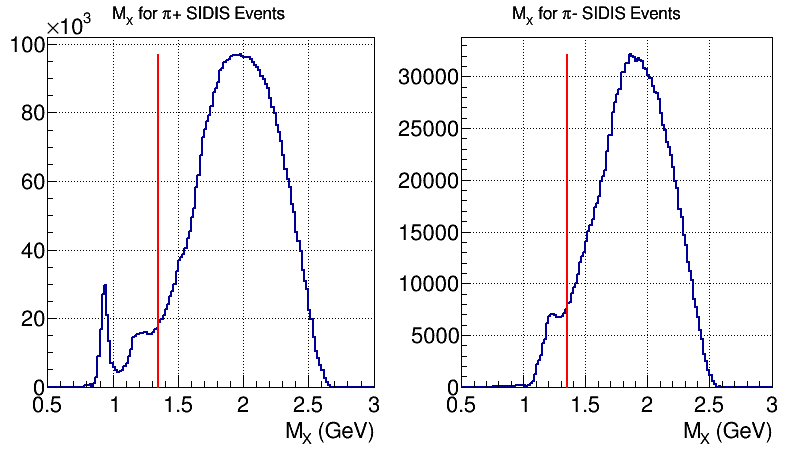
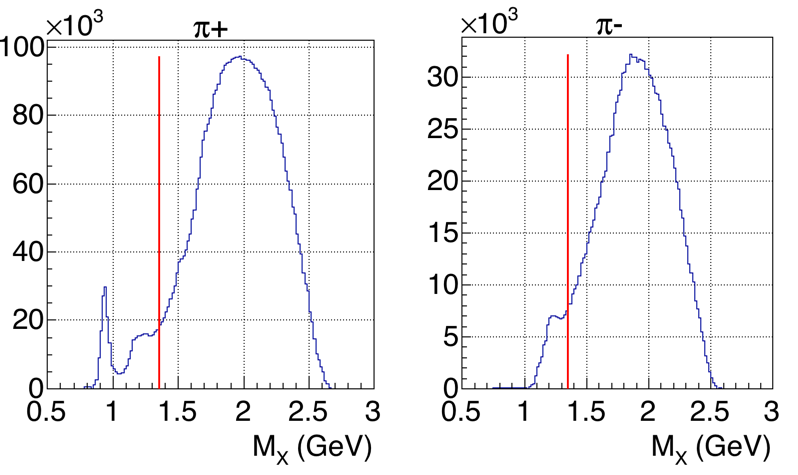
Plot improvements and minor fixes

diff --git a/PRL/plb.tex b/PRL/plb.tex
@@ -7,6 +7,9 @@
 \usepackage{mathtools}
 \usepackage{verbatim}
 
+\usepackage{lineno}
+\linenumbers
+
 \newcommand{\Phperp}{P_{h\perp}}
 \newcommand{\FUUc}{F_{UU}^{\cos\phi_h}}
 \newcommand{\FUUcc}{F_{UU}^{\cos2\phi_h}}
@@ -59,7 +62,7 @@ It is expected that TMDs will give insights into quark orbital motion and its co
 
 TMDs depend on the three-dimensional momentum of a particular parton inside of a hadron.
 One tool for accessing TMDs is Semi-inclusive deep-inelastic scattering (SIDIS) which has emerged as a powerful tool to probe nucleon structure through measurements of spin and azimuthal asymmetries.
-A SIDIS reaction is one in which a beam lepton, $\ell$, scatters off of a target nucleon, $N$, via the exchange of a virtual photon and the scattered lepton, $\ell^{\prime}$, is detected along with a single hadron, $h$; everything else in the final state, $X$, is ignored, i.e.,
+A SIDIS reaction is one in which a beam lepton, $\ell$, scatters off of a target nucleon, $N$, via the exchange of a virtual photon and the scattered lepton, $\ell^{\prime}$, is detected along with a single hadron, $h$; everything else in the final state, $X$, is undetected, i.e.,
 \begin{equation}
 \label{eq:sidis}
 \ell (k) + N(P) \rightarrow \ell^{\prime} (k^{\prime} ) + h(P_{h}) + X(P_{X})
@@ -74,12 +77,12 @@ This is a next-to-leading order effect in the strong coupling constant and contr
 In 1978, Cahn~\cite{Cahn:1978se}   discussed  similar asymmetries arising from non-zero intrinsic transverse momenta of partons.
 Although suppressed by $P_{h\perp}/Q$, where $Q$ is defined by $Q^2 = -q^2 = -(k-k^\prime)^2$ where $q$ is the four-momentum of the virtual photon, that modulation (known as the Cahn effect) appeared to be significant and dominating in the $P_{h\perp} \sim $1 GeV range.
 Significant cosine modulations of $\phi_h$, observed in various experiments, indicate that higher twist~\cite{Jaffe:1996zw} effects can be very important.
-Additional contribution to $\cos \phi_h$ and $\cos 2\phi_h$ moments coming from processes where the final meson
+Additional contributions to $\cos \phi_h$ and $\cos 2\phi_h$ moments coming from processes where the final meson
 is produced at short distances via hard-gluon exchange \cite{Berger:1979xz} may also be 
 significant in the kinematic regime where the ejected meson carries  most of 
 the virtual photon momentum.
 
-The interplay between the parton transverse momentum and spin (Boer-Mulders effect~\cite{Boer:1997nt}) can generate a leading-twist
+The interplay between the parton transverse momentum and spin, known as the Boer-Mulders effect~\cite{Boer:1997nt}, can generate a leading-twist
 contribution to the $\cos 2\phi_h$ modulation, which is one of the main focuses of our studies.
 The Boer-Mulders function, discussed in the next section, is of particular interest since it vanishes in the absence of transverse momentum and thus gives insights into the quark angular momentum contribution to the proton spin.
 
@@ -108,19 +111,22 @@ Assuming single photon exchange, the leptoproduction cross-section for an unpola
 \end{equation}
 where the structure functions, $F$, depend on kinematical variables $x,Q^2,z,P_{h\perp}$ and define the modulations of corresponding azimuthal moments with azimuthal angle $\phi_{h}$.
 The first subscript on the structure functions represents the beam polarization, the second subscript repsresents the target polarization, and the third subscript (if there is one) represents the virtual photon polarization, where U, L, and T are short for unpolarized, longitudinally polarized, and transversely polarized, respectively.
-The kinematic variables $\xbj$, $y$, and $z$  are defined as: 
-$\xbj = Q^2/{2(P\cdot q)}$, $y={(P \cdot q)/(P \cdot k)}$, $\zh=(P_h \cdot P)/(P \cdot q)$, 
-where $\gamma=2M\xbj /Q$ and $M$ and $M_h$ are the nucleon and hadron masses detected hadron.
+The kinematic variables $\xbj$, $y$, and $z$  are defined as follows.
+$\xbj = Q^2/{2(P\cdot q)}$ is the longitudinal momentum fraction of the struck quark, 
+$y={(P \cdot q)/(P \cdot k)}$ is the fraction of the beam energy carried by the virtual photon,
+and $\zh=(P_h \cdot P)/(P \cdot q)$ is the longitudinal momentum fraction of the struck quark, 
+where $\gamma=2M\xbj /Q$ and $M$ and $M_h$ are the nucleon and hadron masses.
 The ratio $\varepsilon$ of the longitudinal and transverse photon flux is given by: $\varepsilon=\frac{1-y-\gamma^2y^2/4}{1-y+y^2/2+\gamma^2y^2/4}$.
 The structure function  $F_{UU,T}$  defining the $\phi_h$-integrated cross sections could be presented as a convolution of  distribution function (DF), $f_1$,   and fragmentation function (FF), $D_1$, which  are the usual unpolarized twist-2 DF and FF, respectively. 
 
-The structure function $F^{\cos 2\ph}_{UU}$ at leading twist can be presented as a convolution of Boer-Mulders distribution function, $h_1^\perp$ (\cite{Boer:1997nt}) describing the correlation between the transverse motion
+The structure function $F^{\cos 2\ph}_{UU}$ at leading twist can be presented as a convolution of Boer-Mulders distribution function, $h_1^\perp$ \cite{Boer:1997nt} describing the correlation between the transverse motion
 of a quark and its own transverse spin, and  the Collins fragmentation function, $H_1^{\perp}$~\cite{Collins:1992kk}, describing fragmentation of transversely polarized quarks.
 The structure function $F^{\cos \ph}_{UU}$  receives contributions 
 from the convolution of twist-2 and twist-3 distribution and fragmentation functions,
-such as the twist-2 Boer-Mulders DF $h_1^\perp$ (\cite{Boer:1997nt,Pasquini:2010af}), the Collins FF $H_1^{\perp}$, and the twist-3 DFs $h$ and $f^\perp$~\cite{Bacchetta:2006tn}, which can be interpreted as a higher twist analog of the Sivers function. Both functions represent spin-orbit correlations. 
+such as the twist-2 time-reversal odd Boer-Mulders DF $h_1^\perp$ (\cite{Boer:1997nt,Pasquini:2010af}), the Collins FF $H_1^{\perp}$, and the twist-3 DFs $h$ and $f^\perp$~\cite{Bacchetta:2006tn}.
+Both functions represent spin-orbit correlations. 
 
-The cross-section modulation of  $\cos \phi_h $ in Eq.~\ref{eq:crosssection3}, gets contributions only
+The $\cos \phi_h$ modulation of the structure function $F_{UU}^{\cos \phi_h}$ in Eq.~\ref{eq:crosssection3} gets contributions only
 at sub-leading level and suppressed by powers of the hard scale Q (higher-twist).
 This type of contribution is interesting in its own as it provides complementary information
 on the quark dynamics.
@@ -143,7 +149,7 @@ The structure function $F^{\cos \ph}_{UU}$ is higher-twist by nature, which mean
 Such higher-twist observables are a key for understanding long-range quark-gluon dynamics.
 They have also been interpreted in terms of average transverse forces acting on a quark at the instant after absorbing the virtual photon \cite{Burkardt:2008vd}.
 Different contributions to the structure function  $F^{\cos \ph}_{UU}$ have been calculated, related to both internal quark motion and the Collins mechanisms.
-Sizable modulations  were predicted for pion production ~\cite{Anselmino:2005nn} with spin-orbit correlations   as the dynamical origin.
+Sizable modulations as large as $\left< \cos \phi_h \right> = 0.2$ were predicted for pion production~\cite{Anselmino:2005nn} with spin-orbit correlations as the dynamical origin.
 Within this framework, the asymmetry generated at the distribution level is given by either the convolution of the T-odd Boer-Mulders DF $h_1^{\perp}$ with the twist-3 FF $\tilde{H}$ ~\cite{Bacchetta:2006tn}, or the convolution of the  twist-3 T-odd DF $f^\perp$ with the unpolarized FF $D_1$\cite{Metz:2004je}.
 Because the $f^\perp$ DF can be interpreted as the higher-twist analog of the Sivers function, it underscores the potential of $\cos\phi_h$ modulation for studying spin-orbit correlations.
 
@@ -155,11 +161,11 @@ Because the $f^\perp$ DF can be interpreted as the higher-twist analog of the Si
 \end{center}
 Longitudinally polarized electrons were scattered off an unpolarized liquid-hydrogen target. 
 Scattered electrons were detected in CLAS.
-Electron candidates were selected by a hardware trigger using a coincidence of the gas Cherenkov counters and the lead-scintillator electromagnetic calorimeters (EC). 
+Electron candidates were selected by a hardware trigger using a coincidence of the gas Cherenkov counters and the lead-scintillator electromagnetic calorimeters. 
 
 Deep-inelastic scattering events were selected by requiring $Q^2>1$ GeV$^2$ and  $W^2>4$ GeV$^2$,
 where $W$ is the invariant mass of the hadronic final state. 
-The total number of selected $e\pi^\pm$ coincidences was $\approx 6.7M$ for the presented $z$ range, $0.4<z<0.7$, which selects the semi-inclusive region \cite{Avakian:2010ae}.
+The total number of selected $e\pi^\pm$ coincidences was $\approx 6.7M$ for the $z$ range $0.4<z<0.7$, which selects the semi-inclusive region \cite{Avakian:2010ae}.
 Events with missing-mass values for the $e\pi^\pm$ system that are smaller 
 than 1.35 GeV ($M_{X}(e\pi^\pm)<$1.35 GeV) were discarded to exclude contributions from exclusive processes. 
 In pion SIDIS events ($ep \rightarrow e\pi X$), the missing mass ($M_X$) is defined as the invariant mass of the undetected state $X$:
@@ -182,11 +188,20 @@ The vertical red line shows the cut of 1.35 GeV. Events to the left of this line
 
 A major challenge in extraction of $\phi_h$ distributions is the handling of the detector acceptance, both geometrical acceptance (the location of active detector elements) and the efficiency in the active regions.
 This is done using Monte Carlo simulations.
-A LUND-MC based event generator (PEPSI~\cite{Mankiewicz:1991dp}) was used to create a realistic large set of events (several iterations were done to make the set ``realistic'') which were passed through a GEANT based simulation of the CLAS detector.
-For a given kinematic space, the acceptance is equal to the number of reconstructed events divided by the number of generated events.
+A LUND-MC based event generator, PEPSI~\cite{Mankiewicz:1991dp}, was used to create a realistic large set of events (several iterations were done to make the set ``realistic'') which were passed through a GEANT based simulation of the CLAS detector.
+Figure~\ref{fig:pt2_data_mc_comparison} shows a data-MC comparison of $P_{h\perp}^2$ distributions.
+For a given kinematic bin, the acceptance is equal to the number of reconstructed events divided by the number of generated events.
 The number of events in the experimental data is then divided by the acceptance to get a corrected value for the number of events.
-After events have been selected and binned, and after all corrections, including bin centering corrections,  have been applied, 
-a table of values of normalized counts in elementary bins has been extracted in 5-dimensional $x$-$Q^2$-$z$-$\Phperp^2$-$\phi_h$ phase space.
+After events have been selected and binned, and after all corrections, including bin centering corrections, have been applied, 
+a table of values of counts in elementary bins has been extracted in 5-dimensional $x$-$Q^2$-$z$-$\Phperp^2$-$\phi_h$ phase space.
+The aforementioned bin centering corrections adjust for bin size and the fact that the measured cross-section is averaged over the phase space coverage of each bin.
+\begin{figure}[htp]
+\centering
+\includegraphics[width=3.0in,height=1.5in]{plots/pt2_data_mc_comparison.png}
+\caption{(Color online) $P_{h\perp}^2$ distributions for data (blue) and MC (red) for the $\pi^+$ channel (left) and $\pi^-$ channel (right).}
+\label{fig:pt2_data_mc_comparison}
+\end{figure}
+
 
 HAPRAD version 2.0 \cite{Akushevich:1999hz,Akushevich:2007jc} was used to calculate radiative corrections (RC) for each bin by calculating $\sigma_{rad+tail} \left( x, Q^2, z, P_{h\perp}^2, \phi_h \right)$ for a given \allowbreak $\sigma_{Born} \left( x, Q^2, z, P_{h\perp}^2, \phi_h \right)$ which is obtained from a model.
 The radiative correction factor is then simply
@@ -200,6 +215,7 @@ The radiative correction factor is then simply
 \end{equation}
 and the Born cross-section can be obtained by dividing the measured cross-section by the RC factor, i.e., $\sigma_{Born} = \sigma_{measured}/\text{RC factor}$.
 Three different models were used to study model dependence of radiative corrections.
+The first model came from MAID 2003~\cite{Drechsel:1999}, which was then tuned slightly to better match the data to produce the other two models.
 
 Fourteen sources of systematic error were studied - eight from electron selection cuts, three from pion selection cuts, one from the acceptance model, one from the RC model, and one from sector dependence.
 The systematic error on the final result due to a given source is the RMS of the deviations of the modified result from the original, i.e. the error from source $i$ is
@@ -210,7 +226,7 @@ The systematic error on the final result due to a given source is the RMS of the
 \end{equation}
 %
 where $\Delta_j$ is the difference between the final result with the nominal value and the final result with variation $j$, and $N_v^i$ is the number of variations for source $i$.
-Main sources of systematic error include the accetance, electron selection cuts, and variations between the six sectors of CLAS.
+Dominant sources of systematic error include the acceptance, electron selection cuts, and variations between the six sectors of CLAS.
 Table~\ref{tab:A0AcAcc_PT2bins_x1QQ1z8} breaks down the relative sizes of the errors for each source for several representative bins.
 Typically, the size of the systematic errors is comparable to the size of the statistical errors.
 Relatively large systematic errors occur in regions of phase space where the acceptance changes rapidly.
@@ -219,17 +235,27 @@ This acceptance structure is strongly correlated with $z$ and $P_{h\perp}^2$ and
 %%%%%%%%%%%%%%%%%%%%%%%%%%%%%%%%%%%%%%%%
 %%%%%%%%%%%%%%%%%%%%%%%%%%%%%%%%%%%%%%%%
 
-%%%%%%%%%%%%%%%%%%%%%%%%%%%%%%%%%%%%%%%%
 \begin{center}
 \textbf{IV. RESULTS} \par
 \end{center}
 \begin{center}
 \textbf{A. $A_0$, $A_{UU}^{\cos\phi_h}$, and $A_{UU}^{\cos 2\phi_h}$} \par
 \end{center}
-To extract the $\phi_h$-independent term ($A_0$) and azimuthal moments ($A_{UU}^{\cos\phi_h}$ and $A_{UU}^{\cos 2\phi_h}$), the $\phi_h$ distributions for charged pions for each $x-Q^2-z-P_{h\perp}^2$ bin are fit with the function $a(1 + b\cos\phi_h + c\cos 2\phi_h)$.
+To extract the $\phi_h$-independent term ($A_0$) and azimuthal moments ($A_{UU}^{\cos\phi_h}$ and $A_{UU}^{\cos 2\phi_h}$), the $\phi_h$ distributions for charged pions for each $x$, $Q^2$, $z$, and $P_{h\perp}^2$ bin are fit with the function $a(1 + b\cos\phi_h + c\cos 2\phi_h)$.
 The parameters $a$, $b$, and $c$ then directly give $A_0$, $A_{UU}^{\cos\phi_h}$, and $A_{UU}^{\cos 2\phi_h}$ for each $x-Q^2-z-P_{h\perp}^2$ bin.
+Comparing this to equation~\ref{eq:crosssection3} gives
+\begin{equation}
+\label{eq:A0AcAccDefinitions}
+\begin{split}
+& A_0 = \frac{2\pi}{2(k\cdot P)x} \frac{\alpha^{2}}{xyQ^{2}} \frac{y^{2}}{2 \left( 1 - \varepsilon \right)} \left( 1 + \frac{\gamma^{2}}{2x} \right) \left( F_{UU,T} + \varepsilon F_{UU,L} \right)
+\\
+& A_{UU}^{\cos \phi_h} = \frac{\sqrt{2 \varepsilon \left( 1 + \varepsilon \right)} F_{UU}^{\cos \phi_h}}{F_{UU,T} + \varepsilon F_{UU,L}}
+\\
+& A_{UU}^{\cos 2 \phi_h} = \frac{\varepsilon F_{UU}^{\cos 2 \phi_h}}{F_{UU,T} + \varepsilon F_{UU,L}} .
+\end{split}
+\end{equation}
 A complete table of results can be found in the ancillary files.
-Several representitive plots are shown here in figure~\ref{fig:A0AcAcc_zPT2bins_x1QQ1_final}, which shows $A_0$, $A_{UU}^{\cos\phi_h}$, and $A_{UU}^{\cos 2\phi_h}$ vs $P_{h\perp}^2$ for several $z$ bins for both pion channels.
+Several representitive plots are shown here in figure~\ref{fig:A0AcAcc_zPT2bins_x1QQ1_final}, which shows the dependence of $P_{h\perp}^2$ on $A_0$, $A_{UU}^{\cos\phi_h}$, and $A_{UU}^{\cos 2\phi_h}$ for each charged pion for several $z$ bins.
 %
 \begin{figure}[htp]
 \centering
@@ -283,17 +309,18 @@ Several representitive plots are shown here in figure~\ref{fig:A0AcAcc_zPT2bins_
 \label{tab:A0AcAcc_PT2bins_x1QQ1z8}
 \end{table}
 
-The $cos \phi_h$ modulations for $\pi^+$ and $\pi^-$ differ considerably, sometimes with opposite signs inticating the Boer-Mulders effect in cosine modulations at lower energies plays a more significant role than expected from higher energy measurements.
-A possible suppression of the Cahn effect due to phase space limitations, which play a more important role at lower beam energies, has been discussed by Prokudin et al.
+The $\cos \phi_h$ modulations for $\pi^+$ and $\pi^-$ differ considerably, sometimes with opposite signs indicating the Boer-Mulders effect in cosine modulations at lower energies plays a more significant role than expected from higher energy measurements.
+A possible suppression of the Cahn effect due to phase space limitations, which play a more important role at lower beam energies, has been discussed by Boglione, Melis, and Prokudin~\cite{Boglione:2011wm}.
 
-The measured $cos 2 \phi_h$ moment for $\pi^+$ and $\pi^-$ in most of the kinematics are close to each other indicating the contribution from the Boer-Mulders effect may not be dominant.
-The $\rm cos \phi_h$ asymmetry gets contributions only at sub-leading twist and can be used to constrain the related terms~\cite{Cahn:1978se,Anselmino:2005nn,Berger:1979xz}.
+The measured $\cos 2 \phi_h$ moment for $\pi^+$ and $\pi^-$ in most of the kinematic bins are close to each other indicating the contribution from the Boer-Mulders effect may not be dominant.
+The $\cos \phi_h$ asymmetry gets contributions only at sub-leading twist and can be used to constrain the related terms~\cite{Cahn:1978se,Anselmino:2005nn,Berger:1979xz}.
 The formalism based on the twist-3 approach could be tested in $Q^2$ dependence of $\cos\phi_h$ modulations.
 
 %%%%%%%%%%%%%%%%%%%%%%%%%%%%%%%%%%%%%%%%
 \begin{center}
 \textbf{B. Comparisons} \par
 \end{center}
+
 During the last few years several precise SIDIS measurements have become available. The CLAS
 collaboration measured non-zero cosine modulations for positive pions produced
 by 6 GeV/c electrons scattering off the proton~\cite{Osipenko:2008rv}.  The
@@ -348,7 +375,8 @@ f(y)\approx \frac{(2-y)\sqrt{1-y}}{1-y+y^{2}/2} ,
 the CLAS and HERMES measurements are found to 
 be consistent with each other in a wide range of $Q^2$, as shown in Figs.~\ref{fig:clas-hermes}, indicating that at energies as low as 5-6 GeV, the
 behavior of azimuthal modulations are similar to higher energy measurements. 
-For comparison, the lowest $\xbj$ CLAS bin and highest $\xbj$ HERMES bins were used with equal average value of $\xbj\approx$ 0.19, $z\approx$ 0.45 and $\Phperp^2 \approx$ 0.42 GeV$^2$.
+For comparison, the lowest $\xbj$ CLAS bin and highest $\xbj$ HERMES bins were used with equal average value of $\xbj\approx$ 0.19, $z\approx$ 0.45 and $\Phperp^2 \approx$ 0.42 GeV$^2$;
+the $Q^2$ range for CLAS is 1.0 - 1.5 $\text{GeV}^2$ while the $Q^2$ range for HERMES is 3.5 - 8.0 $\text{GeV}^2$.
 
 The CLAS data provide significant improvements in the precision of azimuthal moments for the kinematic region where the two data sets overlap, and they extend the measurements to the large $\xbj$ region not accessible at HERMES.
 \begin{figure}[h]

diff --git a/PRL/plot_remakes/pt2_data_mc_comparison.C b/PRL/plot_remakes/pt2_data_mc_comparison.C
@@ -1,0 +1,153 @@
+{
+gStyle->SetOptStat(0);
+gStyle->SetTitleSize(0.08, "t");
+TGaxis::SetMaxDigits(3);
+
+TFile *data = new TFile("/Users/naharrison/mysidis-histos/data.s1.n11625.BiSc5.MoCo11.__0000000000000000__.root", "READ");
+TFile *mc = new TFile("/Users/naharrison/mysidis-histos/MonteCarlo_v12.it2.s1.n32255.BiSc5.__0000000000000000__.root", "READ");
+
+// pip, data/mc:
+TH2F *dpip00 = (TH2F*) data->Get("rec_pip_PT2vsz_x0QQ0");
+TH2F *dpip01 = (TH2F*) data->Get("rec_pip_PT2vsz_x0QQ1");
+TH2F *dpip10 = (TH2F*) data->Get("rec_pip_PT2vsz_x1QQ0");
+TH2F *dpip11 = (TH2F*) data->Get("rec_pip_PT2vsz_x1QQ1");
+TH2F *dpip20 = (TH2F*) data->Get("rec_pip_PT2vsz_x2QQ0");
+TH2F *dpip21 = (TH2F*) data->Get("rec_pip_PT2vsz_x2QQ1");
+TH2F *dpip30 = (TH2F*) data->Get("rec_pip_PT2vsz_x3QQ0");
+TH2F *dpip31 = (TH2F*) data->Get("rec_pip_PT2vsz_x3QQ1");
+TH2F *dpip40 = (TH2F*) data->Get("rec_pip_PT2vsz_x4QQ0");
+TH2F *dpip = new TH2F("dpip", "dpip", 200, 0, 1.05, 200, 0, 1.1);
+dpip->Add(dpip00);
+dpip->Add(dpip01);
+dpip->Add(dpip10);
+dpip->Add(dpip11);
+dpip->Add(dpip20);
+dpip->Add(dpip21);
+dpip->Add(dpip30);
+dpip->Add(dpip31);
+dpip->Add(dpip40);
+TH1D *dpip1 = dpip->ProjectionY();
+dpip1->SetTitle("#pi+");
+dpip1->Scale(1.0/dpip1->Integral(1, 200));
+
+TH2F *mcpip00 = (TH2F*) mc->Get("rec_pip_PT2vsz_x0QQ0");
+TH2F *mcpip01 = (TH2F*) mc->Get("rec_pip_PT2vsz_x0QQ1");
+TH2F *mcpip10 = (TH2F*) mc->Get("rec_pip_PT2vsz_x1QQ0");
+TH2F *mcpip11 = (TH2F*) mc->Get("rec_pip_PT2vsz_x1QQ1");
+TH2F *mcpip20 = (TH2F*) mc->Get("rec_pip_PT2vsz_x2QQ0");
+TH2F *mcpip21 = (TH2F*) mc->Get("rec_pip_PT2vsz_x2QQ1");
+TH2F *mcpip30 = (TH2F*) mc->Get("rec_pip_PT2vsz_x3QQ0");
+TH2F *mcpip31 = (TH2F*) mc->Get("rec_pip_PT2vsz_x3QQ1");
+TH2F *mcpip40 = (TH2F*) mc->Get("rec_pip_PT2vsz_x4QQ0");
+TH2F *mcpip = new TH2F("mcpip", "mcpip", 200, 0, 1.05, 200, 0, 1.1);
+mcpip->Add(mcpip00);
+mcpip->Add(mcpip01);
+mcpip->Add(mcpip10);
+mcpip->Add(mcpip11);
+mcpip->Add(mcpip20);
+mcpip->Add(mcpip21);
+mcpip->Add(mcpip30);
+mcpip->Add(mcpip31);
+mcpip->Add(mcpip40);
+TH1D *mcpip1 = mcpip->ProjectionY();
+mcpip1->SetTitle("#pi+");
+mcpip1->Scale(1.0/mcpip1->Integral(1, 200));
+
+
+// pim data/mc:
+TH2F *dpim00 = (TH2F*) data->Get("rec_pim_PT2vsz_x0QQ0");
+TH2F *dpim01 = (TH2F*) data->Get("rec_pim_PT2vsz_x0QQ1");
+TH2F *dpim10 = (TH2F*) data->Get("rec_pim_PT2vsz_x1QQ0");
+TH2F *dpim11 = (TH2F*) data->Get("rec_pim_PT2vsz_x1QQ1");
+TH2F *dpim20 = (TH2F*) data->Get("rec_pim_PT2vsz_x2QQ0");
+TH2F *dpim21 = (TH2F*) data->Get("rec_pim_PT2vsz_x2QQ1");
+TH2F *dpim30 = (TH2F*) data->Get("rec_pim_PT2vsz_x3QQ0");
+TH2F *dpim31 = (TH2F*) data->Get("rec_pim_PT2vsz_x3QQ1");
+TH2F *dpim40 = (TH2F*) data->Get("rec_pim_PT2vsz_x4QQ0");
+TH2F *dpim = new TH2F("dpim", "dpim", 200, 0, 1.05, 200, 0, 1.1);
+dpim->Add(dpim00);
+dpim->Add(dpim01);
+dpim->Add(dpim10);
+dpim->Add(dpim11);
+dpim->Add(dpim20);
+dpim->Add(dpim21);
+dpim->Add(dpim30);
+dpim->Add(dpim31);
+dpim->Add(dpim40);
+TH1D *dpim1 = dpim->ProjectionY();
+dpim1->SetTitle("#pi-");
+dpim1->Scale(1.0/dpim1->Integral(1, 200));
+
+TH2F *mcpim00 = (TH2F*) mc->Get("rec_pim_PT2vsz_x0QQ0");
+TH2F *mcpim01 = (TH2F*) mc->Get("rec_pim_PT2vsz_x0QQ1");
+TH2F *mcpim10 = (TH2F*) mc->Get("rec_pim_PT2vsz_x1QQ0");
+TH2F *mcpim11 = (TH2F*) mc->Get("rec_pim_PT2vsz_x1QQ1");
+TH2F *mcpim20 = (TH2F*) mc->Get("rec_pim_PT2vsz_x2QQ0");
+TH2F *mcpim21 = (TH2F*) mc->Get("rec_pim_PT2vsz_x2QQ1");
+TH2F *mcpim30 = (TH2F*) mc->Get("rec_pim_PT2vsz_x3QQ0");
+TH2F *mcpim31 = (TH2F*) mc->Get("rec_pim_PT2vsz_x3QQ1");
+TH2F *mcpim40 = (TH2F*) mc->Get("rec_pim_PT2vsz_x4QQ0");
+TH2F *mcpim = new TH2F("mcpim", "mcpim", 200, 0, 1.05, 200, 0, 1.1);
+mcpim->Add(mcpim00);
+mcpim->Add(mcpim01);
+mcpim->Add(mcpim10);
+mcpim->Add(mcpim11);
+mcpim->Add(mcpim20);
+mcpim->Add(mcpim21);
+mcpim->Add(mcpim30);
+mcpim->Add(mcpim31);
+mcpim->Add(mcpim40);
+TH1D *mcpim1 = mcpim->ProjectionY();
+mcpim1->SetTitle("#pi-");
+mcpim1->Scale(1.0/mcpim1->Integral(1, 200));
+
+
+// Draw:
+TCanvas *can = new TCanvas("can", "can", 5, 5, 800, 400);
+can->Divide(2, 1, 0.0001, 0.0001);
+float fontsize = 0.075;
+float topmargin = 0.10;
+float bottommargin = 0.17;
+float leftmargin = 0.10;
+float rightmargin = 0.06;
+
+
+can->cd(1);
+can->cd(1)->SetGrid();
+can->cd(1)->SetTopMargin(topmargin);
+can->cd(1)->SetBottomMargin(bottommargin);
+can->cd(1)->SetLeftMargin(leftmargin);
+can->cd(1)->SetRightMargin(rightmargin);
+
+dpip1->GetXaxis()->SetRangeUser(0, 0.5);
+dpip1->GetXaxis()->SetTitle("P_{hT}^{2}");
+dpip1->GetXaxis()->SetTitleSize(fontsize);
+dpip1->GetXaxis()->SetLabelSize(fontsize);
+dpip1->GetYaxis()->SetLabelSize(fontsize);
+dpip1->SetLineWidth(3);
+dpip1->Draw("hist");
+mcpip1->SetLineWidth(3);
+mcpip1->SetLineColor(kRed);
+mcpip1->Draw("hist same");
+
+
+can->cd(2);
+can->cd(2)->SetGrid();
+can->cd(2)->SetTopMargin(topmargin);
+can->cd(2)->SetBottomMargin(bottommargin);
+can->cd(2)->SetLeftMargin(leftmargin);
+can->cd(2)->SetRightMargin(rightmargin);
+
+mcpim1->GetXaxis()->SetRangeUser(0, 0.5);
+mcpim1->GetXaxis()->SetTitle("P_{hT}^{2}");
+mcpim1->GetXaxis()->SetTitleSize(fontsize);
+mcpim1->GetXaxis()->SetLabelSize(fontsize);
+mcpim1->GetYaxis()->SetLabelSize(fontsize);
+mcpim1->SetLineWidth(3);
+mcpim1->SetLineColor(kRed);
+mcpim1->Draw("hist");
+dpim1->SetLineWidth(3);
+dpim1->Draw("hist same");
+
+
+}

diff --git a/PRL/plot_remakes/plot1.C b/PRL/plot_remakes/plot1.C
@@ -1,17 +1,19 @@
 {
 gStyle->SetOptStat(0);
+gStyle->SetTitleSize(0.09, "t");
+TGaxis::SetMaxDigits(4);
 
-TH1F *hpip = new TH1F("hpip", "M_{X} for #pi+ SIDIS Events", 150, 0.5, 3.0);
+TH1F *hpip = new TH1F("hpip", "   #pi+", 150, 0.5, 3.0);
 hpip->GetXaxis()->SetTitle("M_{X} (GeV)");
-hpip->GetXaxis()->SetTitleSize(0.06);
-hpip->GetXaxis()->SetLabelSize(0.06);
-hpip->GetYaxis()->SetLabelSize(0.06);
+hpip->GetXaxis()->SetTitleSize(0.08);
+hpip->GetXaxis()->SetLabelSize(0.08);
+hpip->GetYaxis()->SetLabelSize(0.08);
 hpip->SetLineWidth(2);
-TH1F *hpim = new TH1F("hpim", "M_{X} for #pi- SIDIS Events", 150, 0.5, 3.0);
+TH1F *hpim = new TH1F("hpim", "   #pi-", 150, 0.5, 3.0);
 hpim->GetXaxis()->SetTitle("M_{X} (GeV)");
-hpim->GetXaxis()->SetTitleSize(0.06);
-hpim->GetXaxis()->SetLabelSize(0.06);
-hpim->GetYaxis()->SetLabelSize(0.06);
+hpim->GetXaxis()->SetTitleSize(0.08);
+hpim->GetXaxis()->SetLabelSize(0.08);
+hpim->GetYaxis()->SetLabelSize(0.08);
 hpim->SetLineWidth(2);
 
 TCanvas *can = new TCanvas("can", "can", 10, 10, 800, 500);
@@ -26,7 +28,7 @@ for(int i = 0; i < 193; i++) {
 }
 numbersFile.close();
 can->cd(1);
-can->cd(1)->SetTopMargin(0.08);
+can->cd(1)->SetTopMargin(0.085);
 can->cd(1)->SetBottomMargin(0.18);
 can->cd(1)->SetLeftMargin(0.12);
 can->cd(1)->SetRightMargin(0.06);
